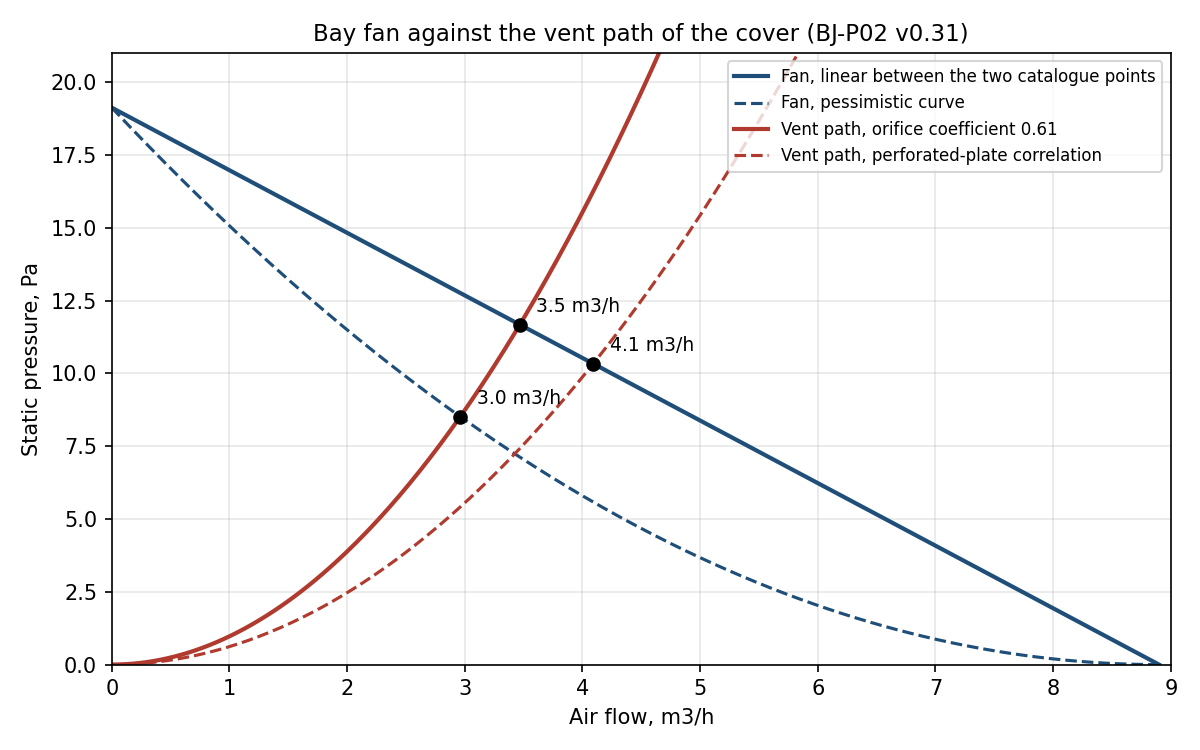
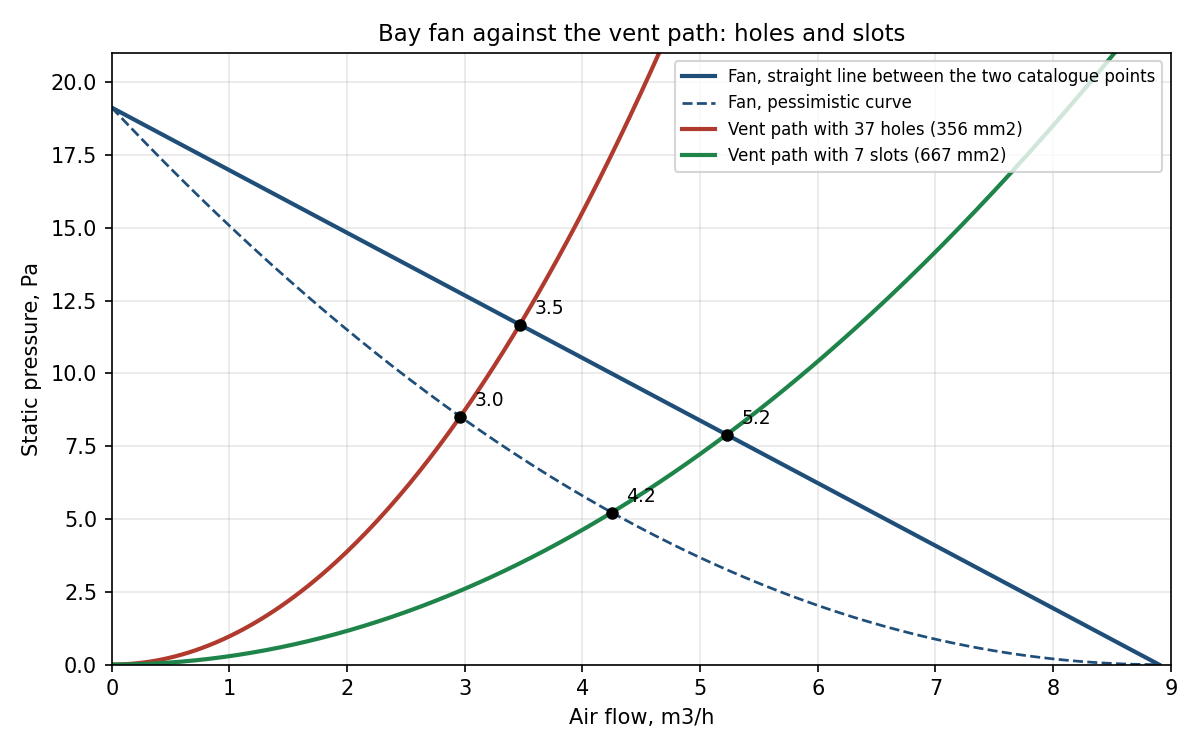
docs: ventilation study in three steps, slots on the fan vent; plain punctuation
The study now compares vents only, a fan under holes and the fan under
slots, with CAD views and the admissible outside temperature in shade
and in direct sun.

diff --git a/studies/BJ-STU-002_bay_ventilation_study.md b/studies/BJ-STU-002_bay_ventilation_study.md
@@ -3,7 +3,7 @@
 | | |
 |---|---|
 | Document | BJ-STU-002 |
-| Revision | A |
+| Revision | B |
 | Date | 15 November 2026 |
 | Status | Released for publication by Alessandro Pistella |
 | Project | Blackjack Rover: rover for the Arduino VENTUNO Q on a Waveshare UGV02 chassis |
@@ -13,9 +13,9 @@
 
 ## 1. Purpose
 
-The cover of Blackjack Rover encloses the Arduino VENTUNO Q. This study shows that the ventilation designed into the cover (one 40 mm fan, two roof grilles, the front grille and the number 21 cut through the side walls) keeps the air around the board inside the temperature rating of the board, and with what margin.
+The cover of Blackjack Rover encloses the Arduino VENTUNO Q. This study shows that the ventilation designed into the cover (one 40 mm fan under a slotted roof vent, a second roof grille, the front grille and the number 21 cut through the side walls) keeps the air around the board inside the temperature rating of the board, and with what margin.
 
-**Result.** With the fan running, the vents pass 3.0 to 4.1 m3/h. At the worst-case power that Arduino states for the board, 25 W held continuously, the bay air stays below the 60 deg C rating up to 41 deg C outside (34 deg C under the most conservative set of assumptions). At the average power of a real workload, 15 W, the limit is 48 deg C outside (44 deg C most conservative). The ventilation as designed is sufficient.
+**Result.** Three configurations are compared: vents only, a fan under a grille with holes, the same fan under slots. Vents alone leave the bay air 50 K above the outside air. The fan under holes passes 3.5 m3/h and is sufficient in shade. The fan under slots, which is the design, passes 5.2 m3/h: at the worst-case power of the board, 25 W held continuously, the air around the board stays inside its 60 deg C rating up to 47 deg C outside in shade and 38 deg C in direct summer sun.
 
 ## 2. Sources
 
@@ -23,7 +23,7 @@ The cover of Blackjack Rover encloses the Arduino VENTUNO Q. This study shows th
 |---|---|---|
 | SRC-01 | Arduino VENTUNO Q data sheet ABX00181, 62 pages, "Modified: 12/11/2026": ratings table, power consumption table, section 12.1 "SoM Heatsink & Thermal Design" | heat to remove, temperature rating |
 | SRC-N07 | Noctua, NF-A4x10 5V PWM specification page, noctua.at/en/products/fan/nf-a4x10-5v-pwm/specification, read on 15 November 2026 | fan end points |
-| RIL-084 | Measurement on the CAD model, Fusion document "Blackjack_B" version 51, 15 November 2026 | free areas of the openings, surface of the cover |
+| RIL-084, RIL-085 | Measurements on the CAD model, Fusion document "Blackjack_B", 15 November 2026 | free areas of the openings with holes and with slots, surface of the cover |
 | [1] | I. E. Idelchik, Handbook of Hydraulic Resistance, perforated plates and orifices | loss coefficients |
 
 Third-party documents are cited, not reproduced. Identifiers RIL-nnn and D-nnn refer to the measurement and decision registers of the project.
@@ -49,11 +49,12 @@ Noctua NF-A4x10 5V PWM, 40 x 40 x 10 mm (SRC-N07): maximum air flow 8.9 m3/h, ma
 
 ### 3.3 Openings of the cover
 
-Measured on the CAD model, body "BJ-P02 concept v0.31" of the Fusion document "Blackjack_B" version 51, by rebuilding every inner loop of every planar face as a face and reading its area (record RIL-084).
+Measured on the CAD model, body "BJ-P02 concept v0.31" of the Fusion document "Blackjack_B" version 51, by rebuilding every inner loop of every planar face as a face and reading its area (records RIL-084 and RIL-085).
 
 | Opening | Geometry | Free area |
 |---|---|---|
-| Roof grille B, above the bay fan | 37 holes dia 3.5 mm at 5 mm pitch inside a 38 mm circle | 356 mm2 |
+| Roof grille B, above the bay fan, with holes | 37 holes dia 3.5 mm at 5 mm pitch inside a 38 mm circle | 356 mm2 |
+| Roof grille B, with slots (cover v0.32) | 7 slots 3.5 mm wide, 2 mm apart, inside the same circle | 667 mm2 |
 | Roof grille A, above the heatsink | same | 356 mm2 |
 | Number 21, two side walls | digit "2" 315 mm2 and digit "1" 170 mm2 on each wall | 970 mm2 |
 | Front grille, inclined front wall | 16 slats 3.2 mm wide | 1258 mm2 |
@@ -86,7 +87,7 @@ The flow is where the pressure the fan can give equals the pressure the path ask
 Two descriptions of grille B bracket the answer:
 
 - conservative: sharp-edged orifice, Cd = 0.61, for every opening;
-- expected: perforated-plate correlation of Idelchik for a thin plate, zeta = (0.707 (1 - f)^0.375 + 1 - f)^2 / f^2 on the approach velocity, with f = 356 / 1134 = 0.314 the free-area ratio over the 38 mm bore; it gives zeta = 17.2, equal to Cd = 0.77 on the free area. The plate is thicker than "thin" (t/d = 0.57), which lowers the loss further.
+- expected, for the holes only: perforated-plate correlation of Idelchik for a thin plate, zeta = (0.707 (1 - f)^0.375 + 1 - f)^2 / f^2 on the approach velocity, with f = 356 / 1134 = 0.314 the free-area ratio over the 38 mm bore; it gives zeta = 17.2, equal to Cd = 0.77 on the free area. The plate is thicker than "thin" (t/d = 0.57), which lowers the loss further.
 
 Two descriptions of the fan bracket it as well, since only the end points are published:
 
@@ -97,59 +98,84 @@ Two descriptions of the fan bracket it as well, since only the end points are pu
 
 Inside: forced convection of weak intensity, 5 W/(m2 K). Outside: natural convection 5 W/(m2 K) plus radiation of a painted surface (emissivity 0.9) at about 35 deg C, 4 eps sigma T^3 = 6.0 W/(m2 K). In series: U = 3.4 W/(m2 K), U * A_wall = 0.18 W/K. The conduction resistance of 2 mm of metal is negligible. This path is used only where stated.
 
-## 5. Results
+### 4.4 Direct sun
 
-### 5.1 Air flow
+Full summer sun, 900 W/m2, on a black cover (absorptance 0.9) with 0.046 m2 of projected area: about 37 W absorbed. With 11 W/(m2 K) towards the outside and 5 W/(m2 K) towards the inside, about 30 % goes inwards: 12 W, taken with no wind. In the sun cases this heat is added to the heat of the board and the sheet-metal path of section 4.3 is set to zero.
+
+### 4.5 No fan
+
+Without the fan the flow is the buoyancy draught through inlets (front grille and number 21) and outlets (the two roof grilles) in series, with a height difference of 20 mm between them: Q = Cd * A_eff * sqrt(2 g h dT / T), solved together with the energy balance.
+
+## 5. Three configurations, one after the other
+
+The design did not start with a fan and slots. It got there in three steps, and the numbers of each step are the reason for the next.
+
+### 5.1 Configuration 1: vents only, no fan
+
+![Roof grille with 37 holes, no fan](img/BJ-STU-002/fig03_config1_vents_only_no_fan.png)
+
+*Figure 3. Roof grille B with 37 holes of 3.5 mm, nothing underneath. CAD view, own work.*
+
+Two roof grilles with holes, the front grille and the number 21, and no bay fan: the air moves only because warm air is lighter. The openings are about 20 mm apart in height, so the draught is weak: 0.4 m3/h at 15 W. The bay air settles about 50 K above the outside air at 15 W and about 75 K at 25 W. The board stays inside its rating only below 11 deg C outside at average load, and not at all at full load. Passive vents are not enough: the bay needs a fan.
+
+### 5.2 Configuration 2: a fan under the holes
+
+![Fan under the grille with holes](img/BJ-STU-002/fig04_config2_fan_under_holes.png)
+
+*Figure 4. The 40 mm fan under grille B with holes; the cover is shown translucent. CAD view, own work.*
+
+With the fan under the same grille the flow rises about nine times, to 3.5 m3/h (3.0 with the pessimistic fan curve). At 15 W the bay air is 11.5 K above the outside air, at 25 W 19.1 K. In shade this is sufficient: 25 W held continuously up to 41 deg C outside.
+
+The same figures show where the limit is. The 37 holes leave 356 mm2 free, 31 % of the bore of the fan, and the fan delivers only 40 % of its free flow: the grille, not the fan, sets the flow. In direct sun, where the black cover brings about 12 W more into the bay, the margin at full load goes down to 27 deg C outside.
+
+### 5.3 Configuration 3: the fan under slots
+
+![Fan under the grille with slots](img/BJ-STU-002/fig05_config3_fan_under_slots.png)
+
+*Figure 5. The same fan under seven slots; the cover is shown translucent. CAD view, own work.*
+
+The holes become seven slots 3.5 mm wide with 2 mm of sheet between them, inside the same 38 mm circle and parallel to the slats of the front grille. The free area goes from 356 to 667 mm2 (59 % of the bore) with the same fan and the same screw pattern. The flow rises to 5.2 m3/h (4.3 with the pessimistic curve). At 25 W the bay air is 13.3 K above the outside air.
 
 ![Fan and vent curves](img/BJ-STU-002/fig01_fan_and_vent_curves.png)
 
-*Figure 1. Fan curves and vent-path curves; the dots are the three operating points. Own work, computed with the script archived with the record.*
+*Figure 1. Fan curves and vent-path curves for holes and for slots; the dots are the operating points in m3/h. Own work.*
 
-| Case | Fan curve | Grille B | Flow | Pressure at the fan | Speed in the holes |
+### 5.4 Admissible outside temperature, in shade and in direct sun
+
+Outside temperature at which the air around the board reaches its 60 deg C rating. Base case first; in brackets the same with the pessimistic fan curve and no help from the sheet metal.
+
+| Configuration | Air flow | 15 W, shade | 15 W, direct sun | 25 W, shade | 25 W, direct sun |
 |---|---|---|---|---|---|
-| Most conservative | pessimistic | Cd 0.61 | 3.0 m3/h | 8.5 Pa | 2.3 m/s |
-| Base | straight line | Cd 0.61 | 3.5 m3/h | 11.7 Pa | 2.7 m/s |
-| Expected | straight line | perforated-plate correlation | 4.1 m3/h | 10.3 Pa | 3.2 m/s |
+| 1. Vents only, no fan | 0.4 m3/h | 11 deg C | outside the rating | outside the rating | outside the rating |
+| 2. Fan under 37 holes | 3.5 m3/h | 49 deg C (44) | 36 deg C (32) | 41 deg C (34) | 27 deg C (22) |
+| 3. Fan under 7 slots | 5.2 m3/h | 52 deg C (49) | 44 deg C (40) | 47 deg C (42) | 38 deg C (33) |
 
-The gross volume of the bay is about 2 litres, so even the lowest figure renews its air every two to three seconds.
+15 W is the average of a real workload; 25 W is the worst case stated by Arduino for the board, taken as continuous. "Direct sun" is full summer sun on the black cover with no wind: about 12 W more in the bay, and no heat leaving through the sheet metal (section 4.4).
 
-### 5.2 Temperature of the bay air above the outside air
+Temperature of the bay air above the outside air, base case:
 
-| Heat in the bay | Most conservative (air only) | Base (air and sheet metal) | Expected (air and sheet metal) |
-|---|---|---|---|
-| 15 W | 15.6 K | 11.5 K | 9.9 K |
-| 20 W | 20.7 K | 15.3 K | 13.2 K |
-| 25 W | 25.9 K | 19.1 K | 16.5 K |
-| 30 W | 31.1 K | 22.9 K | 19.8 K |
-| 33 W | 34.2 K | 25.2 K | 21.8 K |
-
-### 5.3 Highest outside temperature that keeps the board inside its rating
-
-Outside temperature at which the bay air reaches 60 deg C:
-
-| Heat in the bay | Most conservative | Base | Expected |
-|---|---|---|---|
-| 15 W, average workload | 44 deg C | 48 deg C | 50 deg C |
-| 20 W | 39 deg C | 45 deg C | 47 deg C |
-| 25 W, worst case of the board held continuously | 34 deg C | 41 deg C | 43 deg C |
-| 30 W | 29 deg C | 37 deg C | 40 deg C |
-| 33 W, instantaneous maximum held continuously | 26 deg C | 35 deg C | 38 deg C |
+| Configuration | 15 W, shade | 15 W, direct sun | 25 W, shade | 25 W, direct sun |
+|---|---|---|---|---|
+| 1. Vents only, no fan | 50 K | above 100 K | 75 K | above 100 K |
+| 2. Fan under 37 holes | 11.5 K | 23.9 K | 19.1 K | 32.8 K |
+| 3. Fan under 7 slots | 8.0 K | 15.9 K | 13.3 K | 21.7 K |
 
 ![Allowed outside temperature](img/BJ-STU-002/fig02_allowed_ambient.png)
 
-*Figure 2. Outside temperature at which the bay air reaches the 60 deg C rating of the board, against the heat released in the bay. Own work.*
+*Figure 2. Outside temperature at which the bay air reaches 60 deg C, against the heat released by the board, for the three configurations. Dashed: direct sun. Own work.*
 
-## 6. Reading of the results
+## 6. Why the fan, and why the slots
 
-1. **The vents are adequate for the board.** Arduino sized the heatsink and fan of the SoM for 25 W; the cover gives that cooler air below 60 deg C up to 41 deg C outside, and up to 34 deg C when every assumption is taken against the design at once.
-2. **Grille B sets the flow.** The other openings together offer seven times its free area, so the number 21 and the front grille are not the restriction: they are the reason why the air enters low and at the front and leaves at the rear of the roof.
-3. **The bay fan works as an extractor.** Fresh air then enters through the front grille, through the number 21 and through grille A, which sits directly above the heatsink fan of the board.
-4. **Design rule.** The bay fan runs whenever the board is powered.
+1. **The fan is there because the numbers ask for it.** Without it the bay air runs 50 K above the outside air at average load (configuration 1). With it, 8 to 12 K.
+2. **The slots are there because the grille was the restriction, not the fan.** Opening the grille from 31 % to 59 % raises the flow by half with the same fan, the same noise and the same power, and costs only laser path.
+3. **The slots are what makes the rover usable in the sun.** At full load the admissible outside temperature in direct sun goes from 27 to 38 deg C; at average load from 36 to 44 deg C.
+4. **The other openings are not the restriction.** The front grille, the number 21 and the second roof grille together offer almost four times the free area of the slots: they are where the fresh air comes in, low and at the front.
+5. **Design rules that follow.** The bay fan extracts, and runs whenever the board is powered.
 
 ## 7. Assumptions
 
 - Steady state, bay air well mixed, outside air at 30 deg C for the properties, sea-level pressure.
-- No direct sunlight on the cover.
+- Direct sun: 900 W/m2, no wind, black finish; with wind or a lighter finish the sun cases improve.
 - Optional parts of the roof (lidar, turret) fitted on their own mounting pattern, clear of the two grilles (10 mm, RIL-043).
 
 ## 8. Bench test plan
@@ -157,7 +183,7 @@ Outside temperature at which the bay air reaches 60 deg C:
 | Item | What is measured |
 |---|---|
 | Bay air temperature | thermocouple above the board, at 15 W and at full load, fan on |
-| Air flow | anemometer on grille B, compared with section 5.1 |
+| Air flow | anemometer on grille B, compared with section 5.3 |
 | SoM temperature | on-board sensor, against the throttling threshold |
 | Fan speed control | PWM against bay temperature |
 

diff --git a/README.md b/README.md
@@ -2,7 +2,7 @@
 
 **An engineering project to explore what the Arduino VENTUNO Q and its onboard NPU can do on a ROS 2 rover.**
 
-The Qualcomm Dragonwing IQ8 (QCS8275) brings Linux and a dedicated neural processing unit to a mobile platform, alongside an STM32H5 for real-time control. Blackjack uses a stock Waveshare UGV02 as the integration platform. The engineering question is how on-device inference fits alongside sensing, navigation and drive control when they share the rover’s power budget. [VENTUNO Q hardware reference](https://docs.arduino.cc/hardware/ventuno-q/).
+The Qualcomm Dragonwing IQ8 (QCS8275) brings Linux and a dedicated neural processing unit to a mobile platform, alongside an STM32H5 for real-time control. Blackjack uses a stock Waveshare UGV02 as the integration platform. The engineering question is how on-device inference fits alongside sensing, navigation and drive control when they share the rover's power budget. [VENTUNO Q hardware reference](https://docs.arduino.cc/hardware/ventuno-q/).
 
 The current design work covers mechanical packaging, the target ROS 2 architecture and a schematic-based power study. The UGV02 provides a drivetrain, motor controller and battery module, with manufacturer CAD for the mounting interface. Reusing that base focuses the initial integration on mounting the board, powering it from the rover battery and connecting ROS 2 to the motor controller. [Mounting rationale](docs/DESIGN_RATIONALE.md#nothing-drilled-in-the-chassis).
 
@@ -18,21 +18,21 @@ Bring-up starts with the stock UGV02 drive electronics and the front depth camer
 
 ![Target architecture showing the depth camera, GNSS RTK and LTE connections to the Dragonwing IQ8, the UGV02 motor controller and the STM32H5 experiment for heading control and GNSS timing](docs/images/architecture.svg)
 
-**Host and base interface.** The software design targets Ubuntu, ROS 2 Jazzy and the Qualcomm Intelligent Robotics SDK on the Dragonwing IQ8. The base node is designed to translate velocity commands into the UGV02 controller’s JSON protocol over USB serial. Its design uses wheel encoder feedback for odometry and publishes IMU data from the controller. Wheel slip during skid steering makes odometry accuracy a validation item, particularly in turns. This gives teleoperation and navigation a common drive interface, with the chassis protocol contained in the base node.
+**Host and base interface.** The software design targets Ubuntu, ROS 2 Jazzy and the Qualcomm Intelligent Robotics SDK on the Dragonwing IQ8. The base node is designed to translate velocity commands into the UGV02 controller's JSON protocol over USB serial. Its design uses wheel encoder feedback for odometry and publishes IMU data from the controller. Wheel slip during skid steering makes odometry accuracy a validation item, particularly in turns. This gives teleoperation and navigation a common drive interface, with the chassis protocol contained in the base node.
 
 **Perception and compute.** The front depth camera supplies range data over USB. Checking that stream separately from navigation makes it possible to distinguish a sensor or driver fault from a mapping or localisation fault. The first workload selected for the NPU is camera-based object detection as a ROS 2 node. To characterise it on the rover, the test plan calls for recording the model and runtime configuration, latency from image receipt to detection publication, and board input power with the drive stack running. [Bring-up sequence and extensions](ROADMAP.md).
 
-**Positioning and connectivity.** When positioning is commissioned, the ZED-F9P computes the RTK position. Linux uses the SIM7672E LTE connection to fetch corrections from an NTRIP caster and forwards RTCM data to the receiver. The real-time experiment uses the receiver’s time pulse as a hardware timing reference for motion measurements on the STM32H5. A local IMU supplies the measurements for the separate heading correction loop. [RTK and LTE bring-up](ROADMAP.md#rtk-and-lte-bring-up) · [STM32H5 heading control](ROADMAP.md#stm32h5-heading-control).
+**Positioning and connectivity.** When positioning is commissioned, the ZED-F9P computes the RTK position. Linux uses the SIM7672E LTE connection to fetch corrections from an NTRIP caster and forwards RTCM data to the receiver. The real-time experiment uses the receiver's time pulse as a hardware timing reference for motion measurements on the STM32H5. A local IMU supplies the measurements for the separate heading correction loop. [RTK and LTE bring-up](ROADMAP.md#rtk-and-lte-bring-up) · [STM32H5 heading control](ROADMAP.md#stm32h5-heading-control).
 
 ## Mechanical integration
 
 ![Exploded CAD-based render showing the enclosure, electronics and stock chassis as separate assemblies](docs/images/blackjack_render_exploded.jpg)
 
-The adapter uses mounting points already present in the UGV02 deck. Their positions come from the manufacturer’s CAD, so the mounting interface is defined against the chassis geometry and the installation is reversible. [Adapter design rationale](docs/DESIGN_RATIONALE.md#nothing-drilled-in-the-chassis).
+The adapter uses mounting points already present in the UGV02 deck. Their positions come from the manufacturer's CAD, so the mounting interface is defined against the chassis geometry and the installation is reversible. [Adapter design rationale](docs/DESIGN_RATIONALE.md#nothing-drilled-in-the-chassis).
 
 The enclosure is developed from a single 2 mm sheet with nine bends and a flat blank of 285.2 × 241.1 mm. A single blank avoids welded joints and keeps fabrication to laser cutting and press brake operations. That production route constrains the geometry. The openings must lie in the plane of the blank, the unfolded panels must fit without overlap, and adjacent panels must clear one another at bends. [Sheet-metal design rationale](docs/DESIGN_RATIONALE.md#one-sheet-no-welds).
 
-The board has its own heatsink and fan, and the enclosure needs a path for that heat to leave the bay. A dedicated 40 mm fan exchanges air with the outside through roof grilles and the **21** cut into the side panels. The [bay ventilation study](studies/BJ-STU-002_bay_ventilation_study.md) puts numbers on it: 3.0 to 4.1 m3/h through the vents, which keeps the air around the board inside its 60 degree C rating up to 41 degrees C outside at the worst-case power of the board. [Cooling layout](docs/DESIGN_RATIONALE.md#cooling-by-design).
+The board has its own heatsink and fan, and the enclosure needs a path for that heat to leave the bay. A dedicated 40 mm fan exchanges air with the outside through roof grilles and the **21** cut into the side panels. The [bay ventilation study](studies/BJ-STU-002_bay_ventilation_study.md) puts numbers on it, in three steps: vents alone leave the bay 50 K above the outside air; the fan under a perforated grille is sufficient in shade; the fan under slots, the final design, moves 5.2 m3/h and keeps the air around the board inside its 60 degree C rating up to 47 degrees C outside at full load, 38 in direct summer sun. [Cooling layout](docs/DESIGN_RATIONALE.md#cooling-by-design).
 
 | Roof ventilation | Side-panel opening |
 | --- | --- |
@@ -48,11 +48,11 @@ A common mounting centre lets a turret and a lidar share one roof layout as alte
 
 ## Electrical design and bench verification
 
-One switch must control power to both the computer and the drivetrain. Tapping the switched rail is the simplest of the four architectures compared in the study because it keeps the stock switching stage. Both loads would then pass through the battery module’s P3 output. The design also needs to account for how the board behaves at the voltages available on a 3S bus. Arduino lists 12–24 V for the barrel input in its connector table and discusses operation below 12 V subject to the available input power. [Switching alternatives](studies/BJ-STU-001_power_supply_study.md#49-the-rover-switch) · [VENTUNO Q power inputs](studies/BJ-STU-001_power_supply_study.md#46-ventuno-q-power-inputs).
+One switch must control power to both the computer and the drivetrain. Tapping the switched rail is the simplest of the four architectures compared in the study because it keeps the stock switching stage. Both loads would then pass through the battery module's P3 output. The design also needs to account for how the board behaves at the voltages available on a 3S bus. Arduino lists 12-24 V for the barrel input in its connector table and discusses operation below 12 V subject to the available input power. [Switching alternatives](studies/BJ-STU-001_power_supply_study.md#49-the-rover-switch) · [VENTUNO Q power inputs](studies/BJ-STU-001_power_supply_study.md#46-ventuno-q-power-inputs).
 
 ![Candidate power topology showing the switched battery rail supplying the UGV02 motor driver and a fused branch to the VENTUNO Q](docs/images/power-path.svg)
 
-The study uses a 33 W peak from an Arduino reference workload as a design case. At 11.1 V, the board alone would draw about 2.97 A before adding the motor load. Waveshare publishes 2 A for the retail module’s battery output, and the installed module revision must be identified before applying that rating to the rover. The shared rail is a candidate topology. Retaining it depends on the confirmed module ratings and measurements of the combined load. [Current budget](studies/BJ-STU-001_power_supply_study.md#5-current-budget) · [Bench test plan](studies/BJ-STU-001_power_supply_study.md#7-bench-test-plan).
+The study uses a 33 W peak from an Arduino reference workload as a design case. At 11.1 V, the board alone would draw about 2.97 A before adding the motor load. Waveshare publishes 2 A for the retail module's battery output, and the installed module revision must be identified before applying that rating to the rover. The shared rail is a candidate topology. Retaining it depends on the confirmed module ratings and measurements of the combined load. [Current budget](studies/BJ-STU-001_power_supply_study.md#5-current-budget) · [Bench test plan](studies/BJ-STU-001_power_supply_study.md#7-bench-test-plan).
 
 ## Engineering standards and traceability
 
@@ -70,7 +70,7 @@ The engineering record distinguishes manufacturer data, CAD measurements, calcul
 
 ## Related ROS 2 work
 
-In the separate **dum-e** project I investigated reactive navigation with a small neural network in ROS 2 and Gazebo. A language model wrote the network weights directly, then used recorded runs and activation traces to revise them. During execution, the network converted lidar inputs into motion commands. The language model’s role was in development.
+In the separate **dum-e** project I investigated reactive navigation with a small neural network in ROS 2 and Gazebo. A language model wrote the network weights directly, then used recorded runs and activation traces to revise them. During execution, the network converted lidar inputs into motion commands. The language model's role was in development.
 
 One recorded comparison starts both revisions from the same simulated pose. The earlier controller circles until timeout. The revised controller searches for a wall, follows it and crosses the doorway. The study documents the paired trajectories and the controller revision. It also includes a Nav2 reference configuration for selected scenarios and the individual run records. [A robot controller, written in weights](https://alepistella.github.io/dum-e/written-in-weights.html) · [Reproduction guide](https://alepistella.github.io/dum-e/reproduce.html) · [Recorded results](https://alepistella.github.io/dum-e/results.html).
 

diff --git a/studies/BJ-STU-001_power_supply_study.md b/studies/BJ-STU-001_power_supply_study.md
@@ -9,7 +9,7 @@
 | Licence | CC BY 4.0, credit: Blackjack Rover by Alessandro Pistella, github.com/alepistella/blackjack |
 | Measurement records | RIL-004, RIL-011, RIL-057, RIL-072, RIL-073, RIL-074 |
 
-This study compares four architectures for powering the VENTUNO Q and the drivetrain with one switch. The direct branch is the simplest candidate. The shared output rating and the board’s behaviour below the published barrel-input range are the main constraints. The evidence consists of supplier documentation, schematic analysis and measurements from CAD.
+This study compares four architectures for powering the VENTUNO Q and the drivetrain with one switch. The direct branch is the simplest candidate. The shared output rating and the board's behaviour below the published barrel-input range are the main constraints. The evidence consists of supplier documentation, schematic analysis and measurements from CAD.
 
 ## Contents
 
@@ -100,7 +100,7 @@ All the current of the pack, charge and discharge, flows through R2: 0.1 ohm, 1%
 
 The INA219 full-scale shunt input is ±0.32 V at its widest setting (SRC-34). With a 0.1 Ω shunt, that corresponds to 3.2 A of measurement range. The schematic gives no power rating for R2. Continuous output capacity depends on the assembled module, including shunt dissipation, PCB heating, protection and the output connector. [INA219 datasheet](https://www.ti.com/lit/ds/symlink/ina219.pdf).
 
-The output is switched by one MOSFET, M3, and leaves through connector P3 (XH2.54, 2 pins). Waveshare lists 2 A for the retail module’s XH2.54 battery output. The link identifies the retail reference, pending identification of the module fitted to the rover. [Waveshare UPS Module 3S](https://www.waveshare.com/wiki/UPS_Module_3S#Interface_Definition). The overcurrent sense resistors are R21 and R22, 0.01 ohm 2512 each.
+The output is switched by one MOSFET, M3, and leaves through connector P3 (XH2.54, 2 pins). Waveshare lists 2 A for the retail module's XH2.54 battery output. The link identifies the retail reference, pending identification of the module fitted to the rover. [Waveshare UPS Module 3S](https://www.waveshare.com/wiki/UPS_Module_3S#Interface_Definition). The overcurrent sense resistors are R21 and R22, 0.01 ohm 2512 each.
 
 *Figure 2 (not reproduced here, see the cited source). Battery module, excerpt of SRC-30: M4 (ideal diode, marked OPTION), M3 (output switch), R39 1 M from gate to source, connector P4 "SWITCH" between the gate of M3 and ground, output P3 on net VBAT.*
 
@@ -118,7 +118,7 @@ Answer to question 3: a 3S LiPo ranges from 9.0 V (empty) to 12.6 V (full), the 
 
 ### 4.5 How Waveshare powers a Raspberry Pi 5 in the same rover
 
-The assembly video (SRC-32) shows the host mounted on the driver board’s 40-pin header, with no visible USB-C supply cable.
+The assembly video (SRC-32) shows the host mounted on the driver board's 40-pin header, with no visible USB-C supply cable.
 
 That matches the documents:
 
@@ -141,7 +141,7 @@ From SRC-01, chapters 3 and 4.3, and SRC-04, sheet 50:
 | Barrel jack 5.5 x 2.1 mm | 12 to 24 V | 5 A |
 | Screw terminal | 7 to 24 V | 10 A |
 
-On the schematic the barrel jack J5 and the screw terminal J8 are the same net, "7V-24V". The datasheet separately discusses the board’s 7 V startup floor and the power available through the jack at lower voltages. Its connector table specifies 12–24 V for the barrel jack. The common net explains the circuit arrangement. Operation down to the proposed low end of the 3S bus remains a design question under load.
+On the schematic the barrel jack J5 and the screw terminal J8 are the same net, "7V-24V". The datasheet separately discusses the board's 7 V startup floor and the power available through the jack at lower voltages. Its connector table specifies 12-24 V for the barrel jack. The common net explains the circuit arrangement. Operation down to the proposed low end of the 3S bus remains a design question under load.
 
 *Figure 5 (not reproduced here, see the cited source). VENTUNO Q, excerpt of SRC-04 sheet 50: barrel jack J5 and screw terminal J8 on the same net, TVS D5, power switch U15 (KTS1900) with MOSFET Q1 and Q2.*
 
@@ -254,9 +254,9 @@ The Raspberry Pi comparison uses nominal converter capacity. The VENTUNO Q colum
 
 The evidence supports the following conclusions for the candidate architectures.
 
-1. A direct barrel feed removes a converter from the branch. Qualification depends on connector fit and the board’s voltage and power limits (section 4.6).
+1. A direct barrel feed removes a converter from the branch. Qualification depends on connector fit and the board's voltage and power limits (section 4.6).
 2. A single switch for the whole rover needs no added electronics if the board is fed from the switched rail (way A of section 4.9). The cost is that the board's current passes the battery module, as the host's current does in the stock rover.
-3. The 33 W reference case alone exceeds the retail module’s documented 2 A output throughout the three voltage cases. Identify the installed module and apply its ratings to the combined load before retaining the stock path.
+3. The 33 W reference case alone exceeds the retail module's documented 2 A output throughout the three voltage cases. Identify the installed module and apply its ratings to the combined load before retaining the stock path.
 4. The CAD envelope provides a geometric upper bound for evaluating a larger pack. Packaging, protection, charging compatibility and the power path require a separate design review (section 4.10).
 5. The VENTUNO Q measures its own input current (INA232), and the driver board measures its own (INA219 at 0x42). These monitors can provide branch telemetry within their ranges. Bench instrumentation is needed to capture the shared output and fast transients.
 
@@ -269,7 +269,7 @@ Characterise the base configuration first. Repeat the load checks with RTK and L
 | Battery module identity | part marking, connectors P1..P4, value and size of the shunt |
 | Deck switch | latching or momentary, contacts, hole size |
 | Drivetrain load | Record idle, driving and controlled motor transients after confirming the permissible voltage and load limits. |
-| VENTUNO Q load | Characterise boot and the selected inference workload on a supply within the board’s published connector range. Use those traces to evaluate the candidate rail. |
+| VENTUNO Q load | Characterise boot and the selected inference workload on a supply within the board's published connector range. Use those traces to evaluate the candidate rail. |
 | Barrel interface | Identify the fitted jack. Check plug engagement and applicable contact ratings for the pair. |
 | VENTUNO Q residual current | disable pin low; after a 10 s press; after a shutdown from Linux |
 | Combined load | Measure shared output current and board input voltage during defined motor and inference events. Compare the traces with the installed hardware ratings and record any supply drop or reset. |
@@ -307,9 +307,9 @@ D-079 records the candidate for bench evaluation: a fused branch from P3 to barr
 
 ### 9.3 What the ratings say about the decision
 
-- The retail output rating, the connector catalogue rating and the current monitor range describe three different limits. The MOSFET’s datasheet current also depends on its mounting and temperature. Use the installed module rating for acceptance and evaluate shunt dissipation, voltage drop and temperature under the defined load.
+- The retail output rating, the connector catalogue rating and the current monitor range describe three different limits. The MOSFET's datasheet current also depends on its mounting and temperature. Use the installed module rating for acceptance and evaluate shunt dissipation, voltage drop and temperature under the defined load.
 - The Tensility drawing gives 8.5 A for the cable. That figure cannot establish the rating of the mated connection. Arduino lists a 5.5 × 2.1 mm barrel interface, while the jack identified in the STEP model is catalogued with a 2.0 mm centre pin. Confirm the fitted jack, plug engagement and contact ratings before selecting the harness.
-- The 12.6 V upper design case is 0.9 V below the motor driver IC’s 13.5 V operating maximum. Actual voltage at the driver during transients is part of the electrical check.
+- The 12.6 V upper design case is 0.9 V below the motor driver IC's 13.5 V operating maximum. Actual voltage at the driver during transients is part of the electrical check.
 
 ### 9.4 Plug in the model
 

diff --git a/docs/DESIGN_RATIONALE.md b/docs/DESIGN_RATIONALE.md
@@ -28,11 +28,11 @@ This record explains the requirements, alternatives and design constraints behin
 
 A shared switch is a requirement for the board and drive electronics. The candidate design takes the board feed from the stock switched rail through a fused branch and a right-angle barrel plug. This keeps one switching stage and reduces the space required behind the board.
 
-The candidate concentrates both loads at P3. Its suitability depends on the installed module’s output rating, the board’s input limits and the combined load measurements. The study compares separate switching stages and a dedicated switch as alternatives. [Power design decision](../studies/BJ-STU-001_power_supply_study.md#91-decision) · [Bench test plan](../studies/BJ-STU-001_power_supply_study.md#7-bench-test-plan). Decision D-079, 14 November 2026.
+The candidate concentrates both loads at P3. Its suitability depends on the installed module's output rating, the board's input limits and the combined load measurements. The study compares separate switching stages and a dedicated switch as alternatives. [Power design decision](../studies/BJ-STU-001_power_supply_study.md#91-decision) · [Bench test plan](../studies/BJ-STU-001_power_supply_study.md#7-bench-test-plan). Decision D-079, 14 November 2026.
 
 ## Cooling by design
 
-**The choice.** A 40 mm fan exchanges the air of the bay; two grilles on the roof sit above the heatsink of the board and above the fan; the number 21 is cut through both side walls.
+**The choice.** A 40 mm fan exchanges the air of the bay; a grille on the roof sits above the heatsink of the board and a slotted vent above the fan; the number 21 is cut through both side walls.
 
 **Why.** The board has its own heatsink and fan: what an enclosure must not do is trap the warm air around them. The bay fan is therefore there for air exchange, not to blow on the board. The side grilles of the first concepts were replaced by the cut-through 21, which keeps an air path in the side walls and gives the rover its face.
 
@@ -41,7 +41,7 @@ The candidate concentrates both loads at P3. Its suitability depends on the inst
 | ![CAD view of the perforated roof grille in the BJ-P02 cover](images/blackjack_cooling_roof.png) | ![Render of the 21 cutout in the BJ-P02 side panel](images/blackjack_render_detail_21.jpg) |
 | The perforations provide a path for air exchange through the roof. | The cutout lets air pass through the side panel. |
 
-**Proof.** [Bay ventilation study BJ-STU-002](../studies/BJ-STU-002_bay_ventilation_study.md): the fan moves 3.0 to 4.1 m3/h through the vents, which keeps the air around the board below its 60 deg C rating up to 41 deg C outside at the worst-case power of the board, 25 W held continuously.
+**Proof.** [Bay ventilation study BJ-STU-002](../studies/BJ-STU-002_bay_ventilation_study.md) compares three configurations. Vents only: the bay air runs 50 K above the outside air at average load. Fan under a grille with holes: 3.5 m3/h, sufficient in shade. Fan under seven slots, the design: 5.2 m3/h, which keeps the air around the board below its 60 deg C rating up to 47 deg C outside at the worst-case power of the board (25 W continuous), and up to 38 deg C in direct summer sun.
 
 **Record.** Purpose of the bay fan: D-011. Exhaust on one side and intake on the other: D-022. Number 21 in place of the side grilles, two roof grilles: D-063. All 12 November 2026.
 
